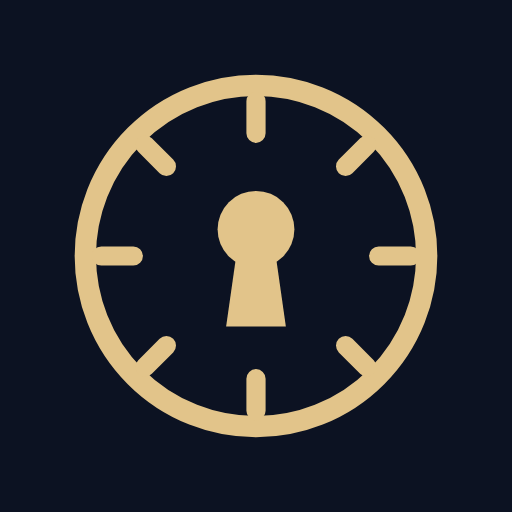
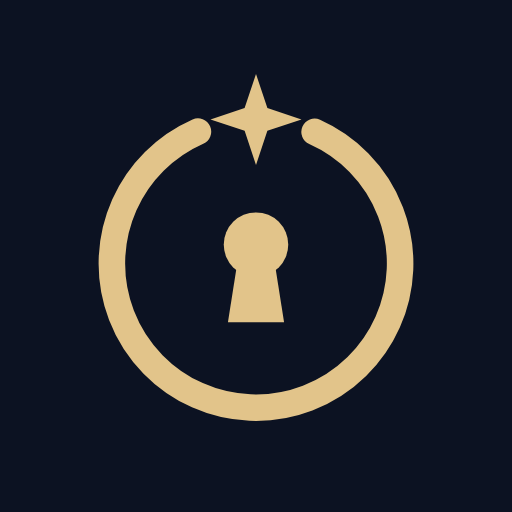
Marca oficial: símbolo Mostrador com estrela e letreiro Clássica; ícones novos
Claude-Session: https://claude.ai/code/session_01Kzzjx1VY8qF9TaZpj74arR

Changed region(s): [[0.125, 0.125, 0.875, 0.875], [0.4062, 0.375, 0.5938, 0.5], [0.4375, 0.5, 0.5625, 0.6562]]

diff --git a/index.html b/index.html
@@ -2,7 +2,7 @@
 <title>Cofre dos Sonhos</title>
 <meta name="claude:viewport-fit-sides" content="cover">
 <link rel="preconnect" href="https://fonts.googleapis.com">
-<link rel="stylesheet" href="https://fonts.googleapis.com/css2?family=DM+Serif+Display:ital@0;1&family=Manrope:wght@400;500;600;700;800&display=swap">
+<link rel="stylesheet" href="https://fonts.googleapis.com/css2?family=DM+Serif+Display:ital@0;1&family=Lora:ital,wght@0,500;1,400&family=Manrope:wght@400;500;600;700;800&display=swap">
 <style>
 /* Identidade Cofre dos Sonhos: noite polar + ouro champanhe + aurora. Elemento-assinatura: o "disco do cofre" (anel com marcações de segredo) que enche conforme a conquista.
    Layout: app de uma coluna para celular, 4 abas + botão central "Guardar". Visual escuro único, por escolha de marca. */
@@ -33,10 +33,11 @@ p{margin:0}
 /* topo */
 .topo{display:flex;align-items:center;justify-content:space-between;gap:12px;padding-block:18px 6px}
 .marca{display:flex;align-items:center;gap:10px}
-.marca svg{width:34px;height:34px}
-.marca b{font-family:var(--display);font-weight:400;font-size:21px;line-height:1;white-space:nowrap}
+.marca svg{width:36px;height:36px;flex:none}
+.marca b{font-family:Lora,Georgia,serif;font-weight:500;font-size:21px;line-height:1;white-space:nowrap;letter-spacing:-.01em}
+.marca b em{font-weight:400;color:var(--ouro)}
 .marca{min-width:0}
-.marca small{display:block;font-size:10.5px;letter-spacing:.16em;text-transform:uppercase;color:var(--nevoa);margin-top:3px}
+.marca small{display:block;font-size:9.5px;font-weight:700;letter-spacing:.26em;text-transform:uppercase;color:var(--nevoa);margin-top:3px}
 .selo-plano{white-space:nowrap;flex:none;font-size:11px;font-weight:800;letter-spacing:.1em;text-transform:uppercase;padding:5px 10px;border-radius:999px;border:1px solid var(--linha);color:var(--nevoa);background:transparent;cursor:pointer}
 .selo-plano.premium{color:var(--ouro);border-color:var(--ouro-forte)}
 .selo-plano.elite{color:var(--ouro-tinta);background:var(--ouro);border-color:var(--ouro)}
@@ -193,8 +194,8 @@ canvas.confete{position:fixed;inset:0;width:100%;height:100%;pointer-events:none
 <div class="app" id="app">
   <header class="topo">
     <div class="marca" aria-label="Cofre dos Sonhos">
-      <svg viewBox="0 0 40 40" aria-hidden="true"><circle cx="20" cy="20" r="17" fill="none" stroke="#e2c48a" stroke-width="1.6"/><g stroke="#e2c48a" stroke-width="1.4" stroke-linecap="round"><path d="M20 4.5v3M20 32.5v3M4.5 20h3M32.5 20h3M9 9l2 2M29 29l2 2M31 9l-2 2M11 29l-2 2"/></g><circle cx="20" cy="17.5" r="3.4" fill="#e2c48a"/><path d="M18.3 19.5h3.4l1 7h-5.4z" fill="#e2c48a"/></svg>
-      <div><b>Cofre dos Sonhos</b><small>por Inspira Diário</small></div>
+      <svg viewBox="0 0 100 100" aria-hidden="true"><circle cx="50" cy="52" r="38" fill="none" stroke="#e2c48a" stroke-width="7" stroke-linecap="round" stroke-dasharray="207 32" transform="rotate(-66 50 52)"/><path fill="#e2c48a" d="M50 2 L53 11 L62 14 L53 17 L50 26 L47 17 L38 14 L47 11Z"/><circle cx="50" cy="47" r="8.5" fill="#e2c48a"/><path d="M45.2 51h9.6l2.6 16.5H42.6z" fill="#e2c48a"/></svg>
+      <div><b>Cofre <em>dos Sonhos</em></b><small>por Inspira Diário</small></div>
     </div>
     <button class="selo-plano" id="seloPlano" data-acao="planos">Entrada</button>
   </header>
